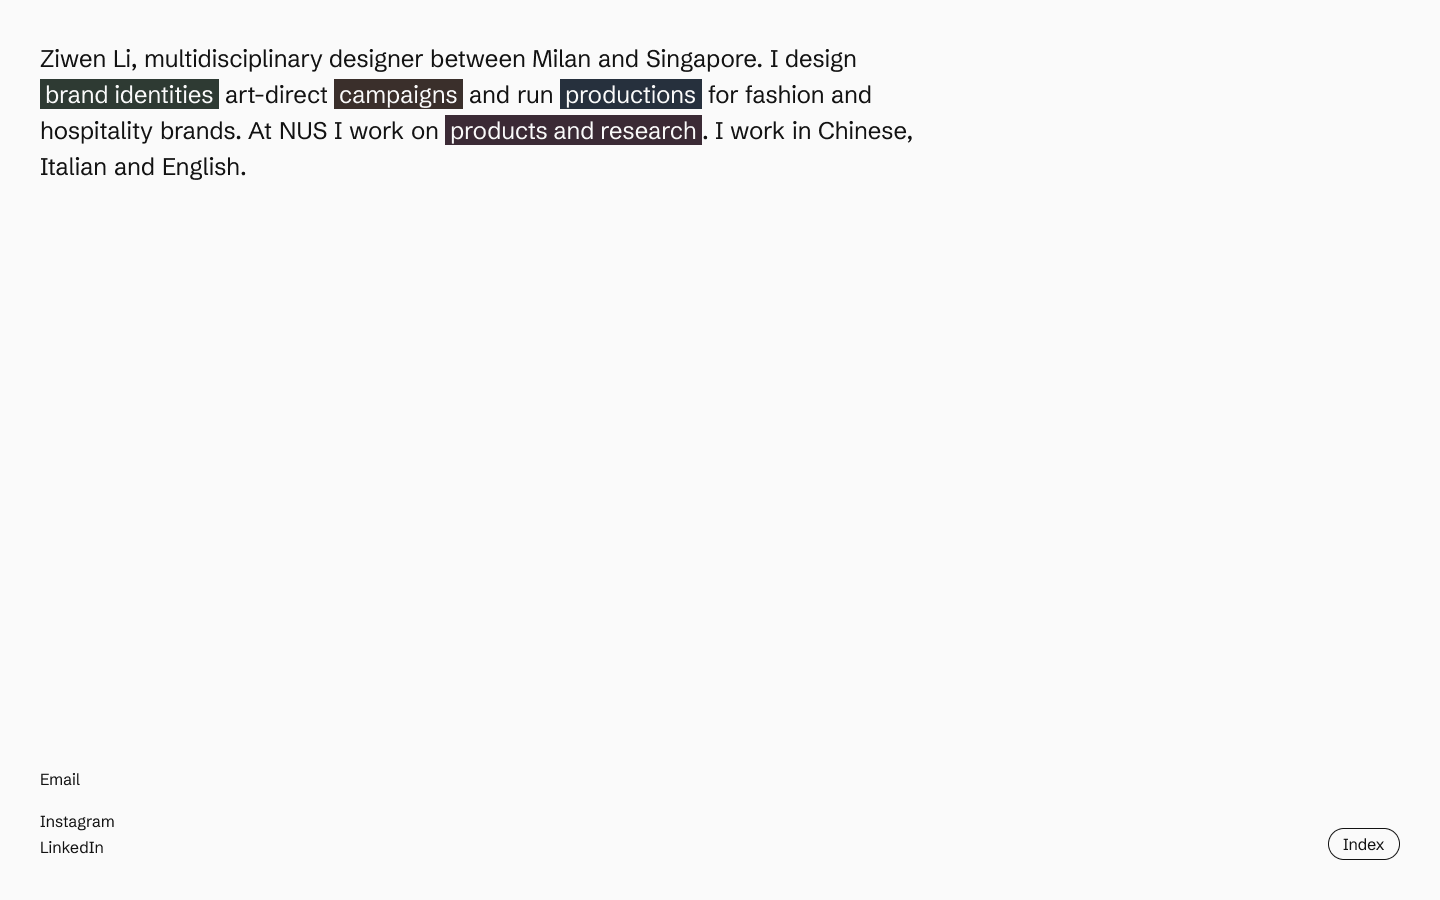
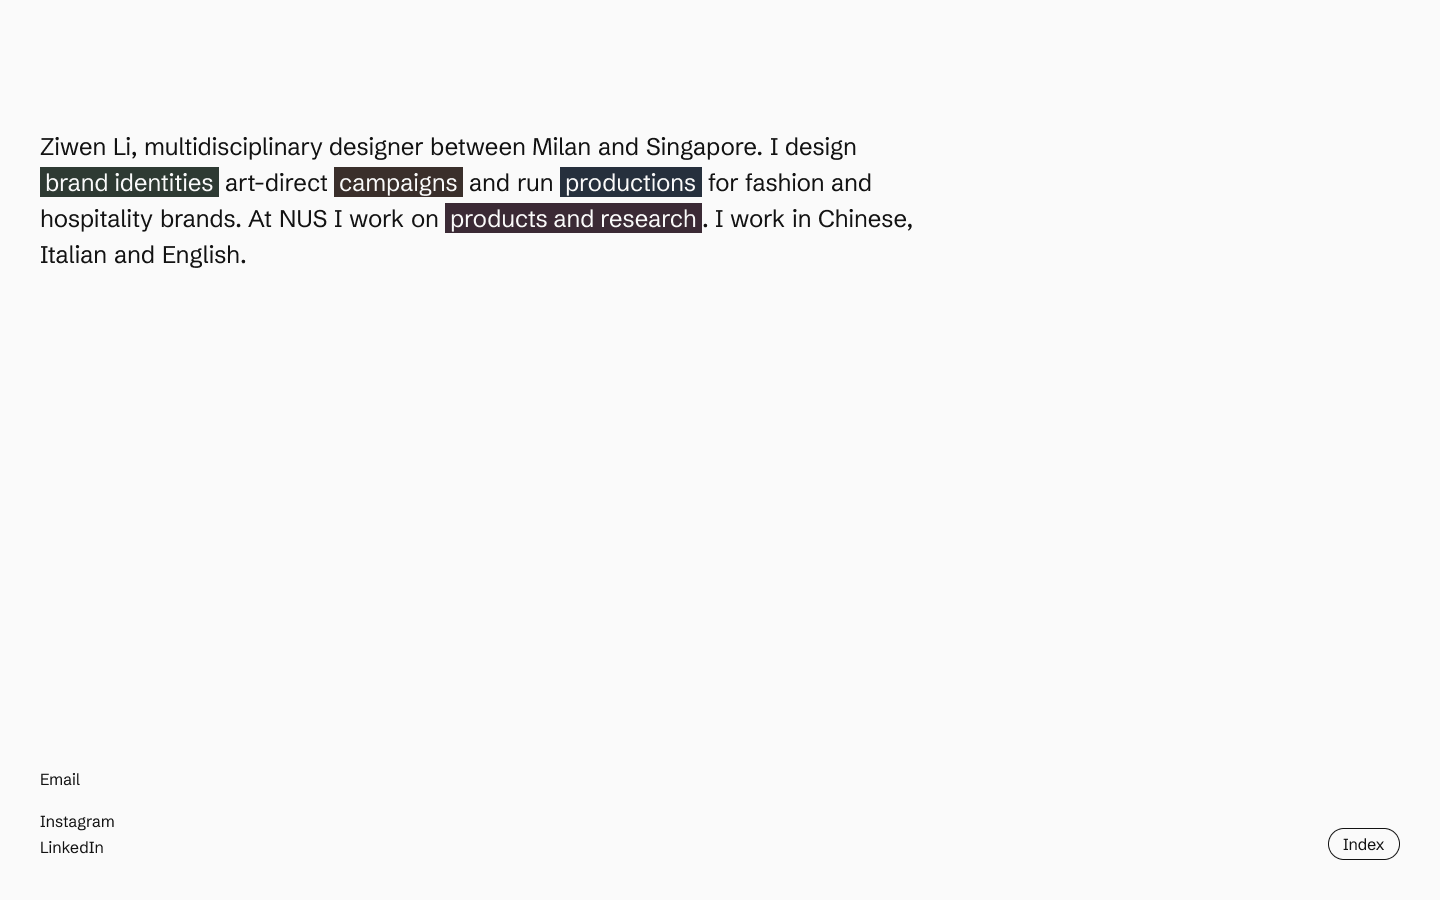
Home intro top margin 128

Changed region(s): [[0.0, 0.0622, 0.625, 0.3111]]

diff --git a/docs/design-rules.md b/docs/design-rules.md
@@ -170,7 +170,7 @@ Figma：文字样式 `Desktop/*` 和 `Mobile/*`。代码：Tailwind 的默认字
 - 间距只用这些数值（单位 px）：4、8、12、16、24、32、48、64、96、128。
 - 页面左右留白：桌面 40，平板 24，手机 16。
 - **[已定 2026-11-25]** 桌面 12 栏网格，栏间距 24，左右留白 40（1440 宽时每栏约 91px）；手机 4 栏，栏间距 16。所有元素的起点和宽度都对齐栏。
-- 首页：介绍占第 1 到 8 栏，离顶部 40（和左右、底部留白一样，四边统一 40）；底部离底边 40：左下角是竖排、左对齐的联系方式（Email，空一行，Instagram、LinkedIn），Body 16，无下划线；右下角是 Index 描边胶囊按钮，右对齐第 12 栏，底边和联系方式对齐。在 Index 页面，同一个按钮写 Notes。介绍字号 24，行距 1.5（36px）。
+- 首页：介绍占第 1 到 8 栏，离顶部 128（试过 40 太贴顶、96 和边距差得不够明显）；底部离底边 40：左下角是竖排、左对齐的联系方式（Email，空一行，Instagram、LinkedIn），Body 16，无下划线；右下角是 Index 描边胶囊按钮，右对齐第 12 栏，底边和联系方式对齐。在 Index 页面，同一个按钮写 Notes。介绍字号 24，行距 1.5（36px）。
 - 内容最大宽度 1440，普通正文段落最大宽度约 640（每行 60 到 75 个字符）；首页介绍例外，占 8 栏。
 - 大段落之间 96 到 128，小组件之间 16 到 24。
 
